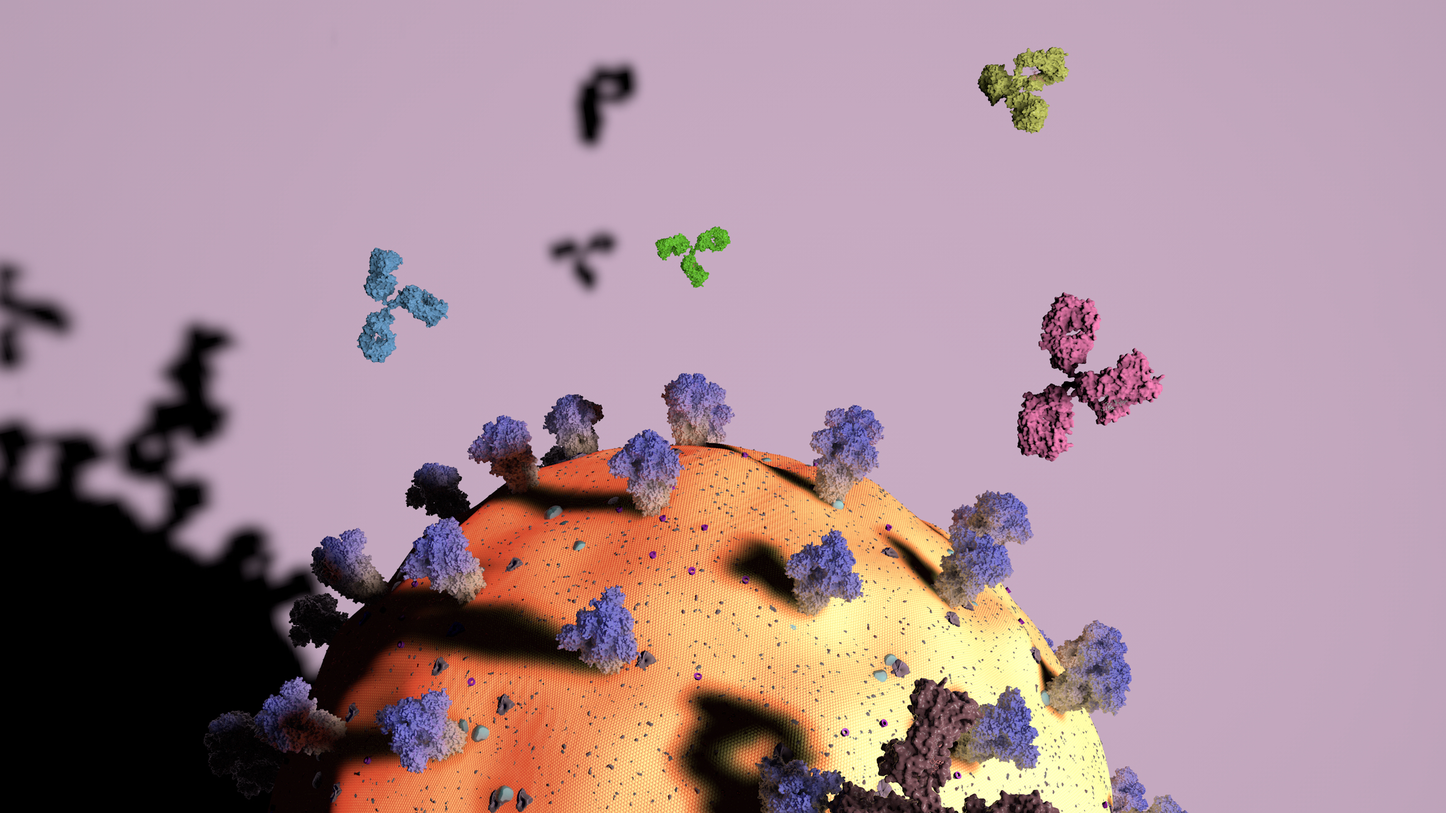
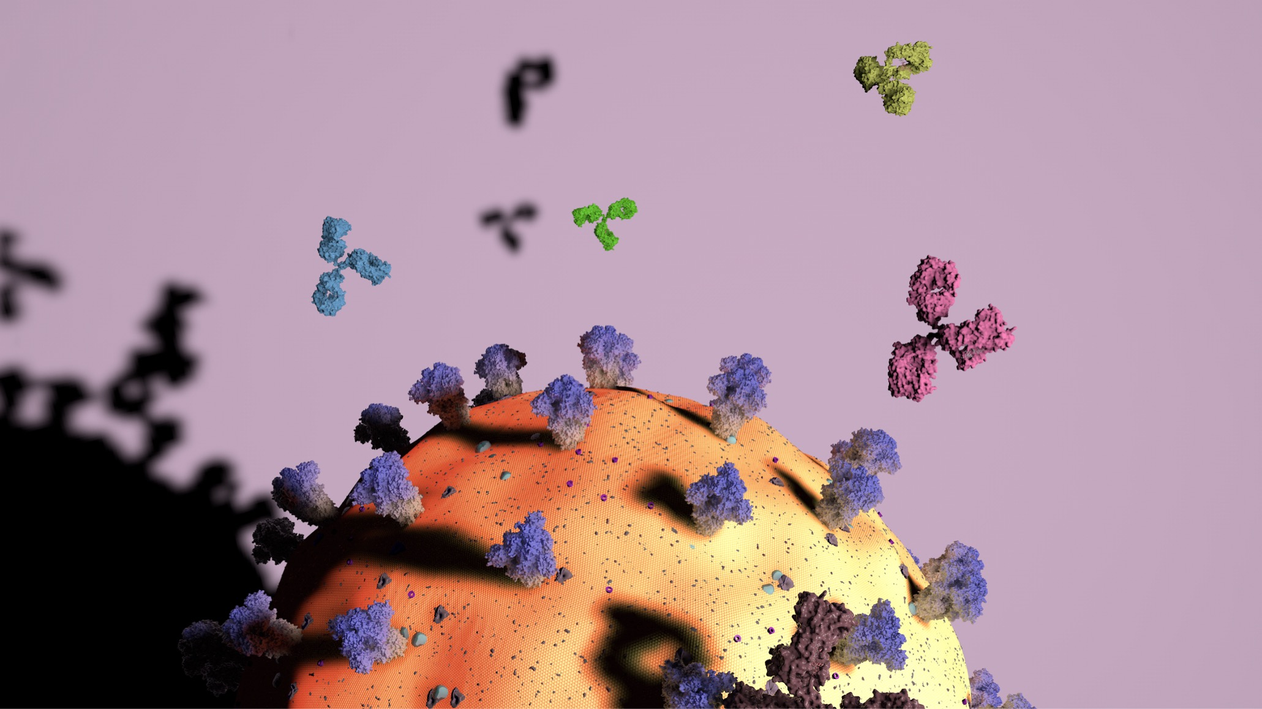
update image and video

diff --git a/index.html b/index.html
@@ -40,7 +40,7 @@
 									</div></section>
 									<div class="row aln-center">
 										<ul class="actions stacked">
-											<li><a href="aboutme.html" class="button primary">About me</a></li>
+											<li><a href="about.html" class="button primary">About me</a></li>
 										</ul>
 									</div>
 
@@ -109,46 +109,6 @@
 										</ul>
 									</div>
 								</section>
-							<!-- Blog -->
-								<section>
-									<header class="major">
-										<h2>The Blog module coming soon</h2>
-									</header>
-									<div class="row">
-										<div class="col-6 col-12-small">
-											<section class="box">
-												<a href="#" class="image featured"><img src="images/pic08.jpg" alt="" /></a>
-												<header>
-													<h3>title one</h3>
-													<p>Posted 45 minutes ago</p>
-												</header>
-												<p>Coming soon</p>
-												<footer>
-													<ul class="actions">
-														<li><a href="#" class="button icon solid fa-file-alt">Continue Reading</a></li>
-														<li><a href="#" class="button alt icon solid fa-comment">33 comments</a></li>
-													</ul>
-												</footer>
-											</section>
-										</div>
-										<div class="col-6 col-12-small">
-											<section class="box">
-												<a href="#" class="image featured"><img src="images/pic09.jpg" alt="" /></a>
-												<header>
-													<h3>title two</h3>
-													<p>Posted 45 minutes ago</p>
-												</header>
-												<p>Coming soon</p>
-												<footer>
-													<ul class="actions">
-														<li><a href="#" class="button icon solid fa-file-alt">Continue Reading</a></li>
-														<li><a href="#" class="button alt icon solid fa-comment">33 comments</a></li>
-													</ul>
-												</footer>
-											</section>
-										</div>
-									</div>
-								</section>
 						</div>
 					</div>
 
@@ -170,7 +130,7 @@
 									</header>
 									<ul>
 										<li><a href="index.html">Home</a></li>
-										<li><a href="aboutme.html">About me</a></li>
+										<li><a href="about.html">About me</a></li>
 										<li><a href="research.html">Research</a></li>
 										<li><a href="blog.html">The blog</a></li>
 										<li><a href="ideagenerator.html">Idea Generator</a></li>

diff --git a/biovideo.html b/biovideo.html
@@ -35,19 +35,15 @@
 									</header>
 
 									<div class="row gtr-200">
+
 										<!-- figure -->
 										<div class="col-6 col-12-medium">
 											<header class="main">
-												<h2>Coming soon</h2>
+												<h2>Antibody classification by machine learning model</h2>
 											</header>
-											<p></p><span class="image main"><img src="images/pic01.jpg" alt="" /></span>
-										</div>
-										<!-- figure -->
-										<div class="col-6 col-12-medium">
-											<header class="main">
-												<h2>Coming soon</h2>
-											</header>
-											<p></p><span class="image main"><img src="images/pic02.jpg" alt="" /></span>
+											<video width="480" height="270" controls>
+											  <source src="images/sars-cov-2-3.mp4" type="video/mp4">
+											</video>
 										</div>
 
 									</div>
@@ -75,7 +71,7 @@
 									</header>
 									<ul>
 										<li><a href="index.html">Home</a></li>
-										<li><a href="aboutme.html">About me</a></li>
+										<li><a href="about.html">About me</a></li>
 										<li><a href="research.html">Research</a></li>
 										<li><a href="blog.html">The blog</a></li>
 										<li><a href="ideagenerator.html">Idea Generator</a></li>

diff --git a/bioplus.html b/bioplus.html
@@ -38,16 +38,16 @@
 										<!-- figure -->
 										<div class="col-6 col-12-medium">
 											<header class="main">
-												<h2>Coming soon</h2>
+												<h2>Virus + Machine learning</h2>
 											</header>
-											<p></p><span class="image main"><img src="images/pic01.jpg" alt="" /></span>
+											<p></p><span class="image main"><img src="images/cover2.jpeg" alt="" /></span>
 										</div>
 										<!-- figure -->
 										<div class="col-6 col-12-medium">
 											<header class="main">
-												<h2>Coming soon</h2>
+												<h2>Virus + Machine learning</h2>
 											</header>
-											<p></p><span class="image main"><img src="images/pic02.jpg" alt="" /></span>
+											<p></p><span class="image main"><img src="images/cover3.jpeg" alt="" /></span>
 										</div>
 
 									</div>
@@ -75,7 +75,7 @@
 									</header>
 									<ul>
 										<li><a href="index.html">Home</a></li>
-										<li><a href="aboutme.html">About me</a></li>
+										<li><a href="about.html">About me</a></li>
 										<li><a href="research.html">Research</a></li>
 										<li><a href="blog.html">The blog</a></li>
 										<li><a href="ideagenerator.html">Idea Generator</a></li>

diff --git a/bioprocess.html b/bioprocess.html
@@ -38,17 +38,11 @@
 										<!-- figure -->
 										<div class="col-6 col-12-medium">
 											<header class="main">
-												<h2>Coming soon</h2>
+												<h2>Phage infection</h2>
 											</header>
-											<p></p><span class="image main"><img src="images/pic01.jpg" alt="" /></span>
+											<p></p><span class="image main"><img src="images/Bacteriophage.jpg" alt="" /></span>
 										</div>
-										<!-- figure -->
-										<div class="col-6 col-12-medium">
-											<header class="main">
-												<h2>Coming soon</h2>
-											</header>
-											<p></p><span class="image main"><img src="images/pic02.jpg" alt="" /></span>
-										</div>
+
 
 									</div>
 
@@ -75,7 +69,7 @@
 									</header>
 									<ul>
 										<li><a href="index.html">Home</a></li>
-										<li><a href="aboutme.html">About me</a></li>
+										<li><a href="about.html">About me</a></li>
 										<li><a href="research.html">Research</a></li>
 										<li><a href="blog.html">The blog</a></li>
 										<li><a href="ideagenerator.html">Idea Generator</a></li>

diff --git a/research.html b/research.html
@@ -34,7 +34,7 @@
 										<h1>Research</h1>
 									</header>
 									<h2>Overview</h2>
-									<span class="image fit"><img src="images/pic11.jpg" alt="" /></span>
+									<span class="image fit"><img src="images/SARS2-3.jpg" alt="" /></span>
 									<p>I am generally interested in understanding the relationship between biological sequence, structure and function. Specifically, I study how the primary sequence of an antibody determines its structure and function, how changes in genetic information affect the viral phenotype by developing deep learning models and conducting biological experiments</p>
 
 									<div class="row gtr-200">
@@ -113,7 +113,7 @@
 									</header>
 									<ul>
 										<li><a href="index.html">Home</a></li>
-										<li><a href="aboutme.html">About me</a></li>
+										<li><a href="about.html">About me</a></li>
 										<li><a href="research.html">Research</a></li>
 										<li><a href="blog.html">The blog</a></li>
 										<li><a href="ideagenerator.html">Idea Generator</a></li>

diff --git a/about.html b/about.html
@@ -134,7 +134,7 @@
 									</header>
 									<ul>
 										<li><a href="index.html">Home</a></li>
-										<li><a href="aboutme.html">About me</a></li>
+										<li><a href="about.html">About me</a></li>
 										<li><a href="research.html">Research</a></li>
 										<li><a href="blog.html">The blog</a></li>
 										<li><a href="ideagenerator.html">Idea Generator</a></li>

diff --git a/biopainting.html b/biopainting.html
@@ -93,7 +93,7 @@
 									</header>
 									<ul>
 										<li><a href="index.html">Home</a></li>
-										<li><a href="aboutme.html">About me</a></li>
+										<li><a href="about.html">About me</a></li>
 										<li><a href="research.html">Research</a></li>
 										<li><a href="blog.html">The blog</a></li>
 										<li><a href="ideagenerator.html">Idea Generator</a></li>

diff --git a/ideagenerator.html b/ideagenerator.html
@@ -61,7 +61,7 @@
 									</header>
 									<ul>
 										<li><a href="index.html">Home</a></li>
-										<li><a href="aboutme.html">About me</a></li>
+										<li><a href="about.html">About me</a></li>
 										<li><a href="research.html">Research</a></li>
 										<li><a href="blog.html">The blog</a></li>
 										<li><a href="ideagenerator.html">Idea Generator</a></li>
